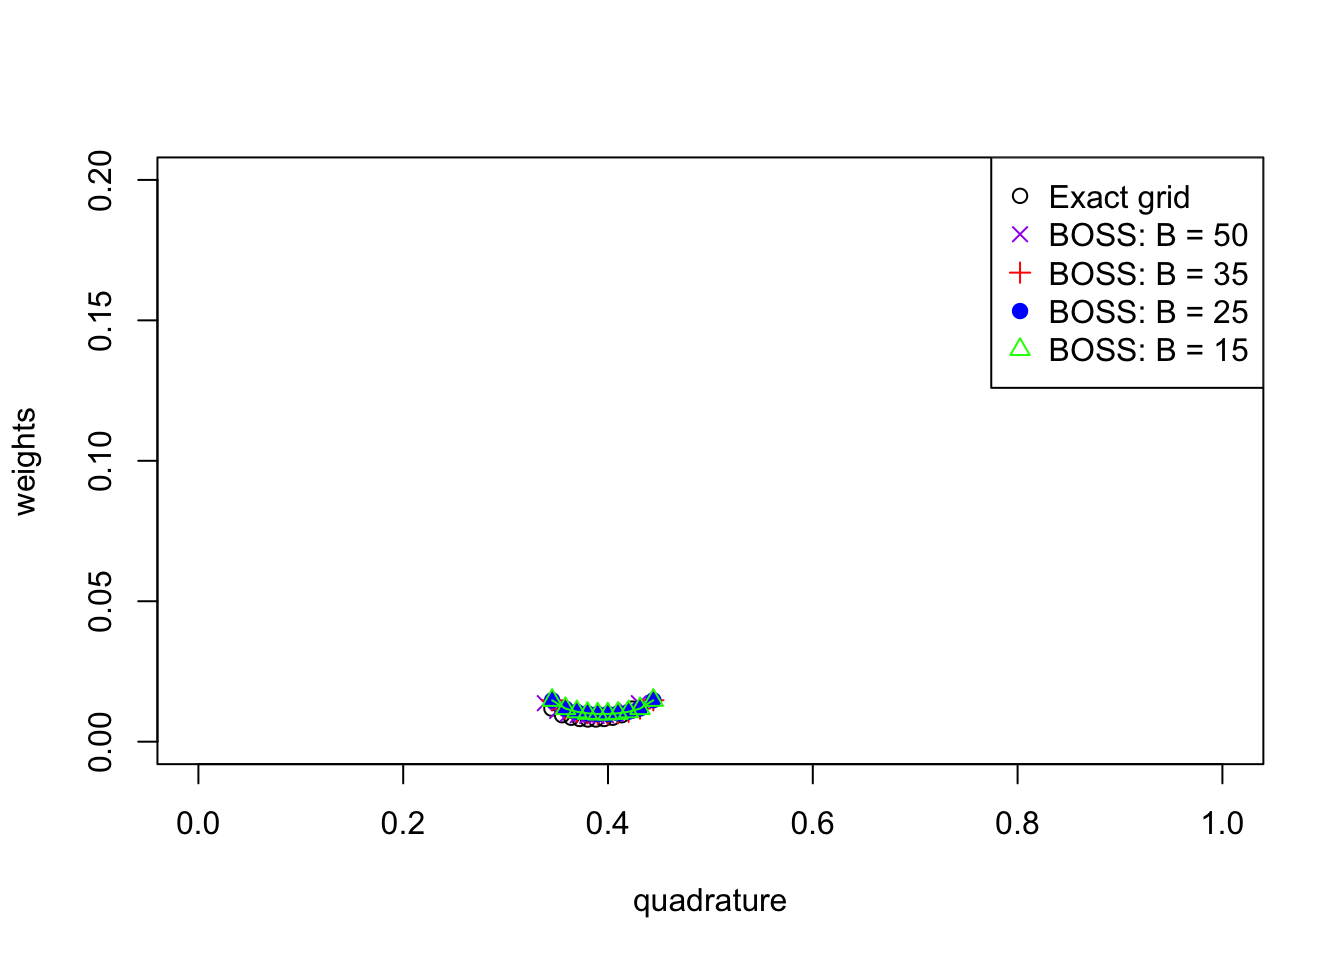
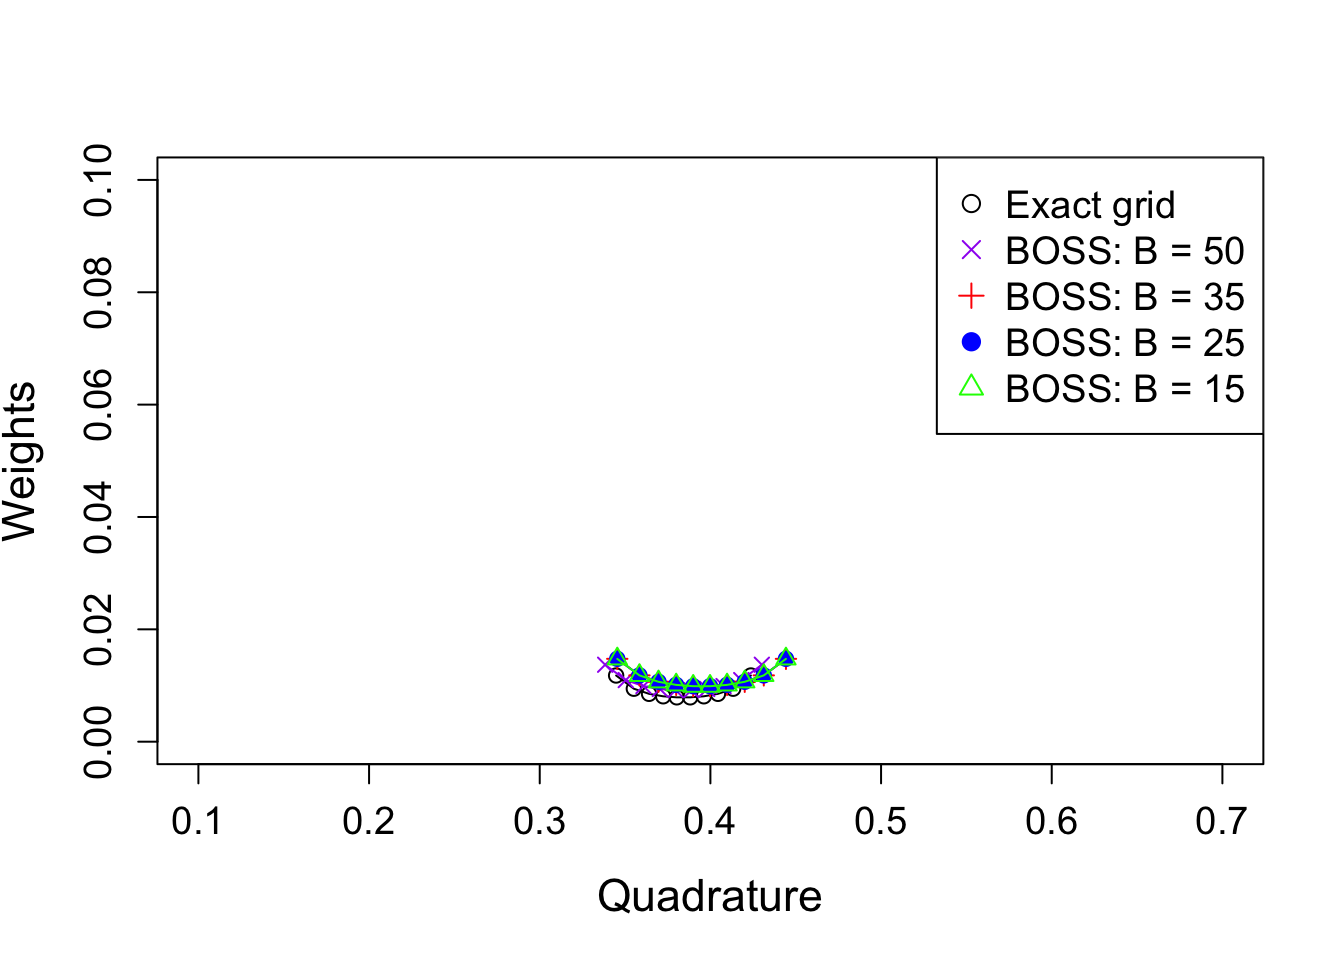
Build site.

diff --git a/docs/sim2.html b/docs/sim2.html
@@ -530,15 +530,15 @@ project makes it easier to run your code on other machines.</p>
 <div class="panel panel-default">
 <div class="panel-heading">
 <p class="panel-title">
-<a data-toggle="collapse" data-parent="#workflowr-checks" href="#strongRepositoryversionstrongahrefhttpsgithubcomAgueroZZBOSSwebsitetreef33af32aacd35338df14520bf59225d20830994atargetblankf33af32a">
+<a data-toggle="collapse" data-parent="#workflowr-checks" href="#strongRepositoryversionstrongahrefhttpsgithubcomAgueroZZBOSSwebsitetree7638cbfa8e4f3d7d0a84492b92b170f703072c9atargetblank7638cbfa">
 <span class="glyphicon glyphicon-ok text-success"
 aria-hidden="true"></span> <strong>Repository version:</strong>
-<a href="https://github.com/AgueroZZ/BOSS_website/tree/f33af32aacd35338df14520bf59225d20830994a" target="_blank">f33af32</a>
+<a href="https://github.com/AgueroZZ/BOSS_website/tree/7638cbfa8e4f3d7d0a84492b92b170f703072c9a" target="_blank">7638cbf</a>
 </a>
 </p>
 </div>
 <div
[2 lines of base64/hex data omitted]
 class="panel-collapse collapse">
 <div class="panel-body">
 <p>
@@ -548,7 +548,7 @@ reproducibility.
 </p>
 <p>
 The results in this page were generated with repository version
-<a href="https://github.com/AgueroZZ/BOSS_website/tree/f33af32aacd35338df14520bf59225d20830994a" target="_blank">f33af32</a>.
+<a href="https://github.com/AgueroZZ/BOSS_website/tree/7638cbfa8e4f3d7d0a84492b92b170f703072c9a" target="_blank">7638cbf</a>.
 See the <em>Past versions</em> tab to see a history of the changes made
 to the R Markdown and HTML files.
 </p>
@@ -637,6 +637,40 @@ Message
 </tr>
 </thead>
 <tbody>
+<tr>
+<td>
+Rmd
+</td>
+<td>
+<a href="https://github.com/AgueroZZ/BOSS_website/blob/7638cbfa8e4f3d7d0a84492b92b170f703072c9a/analysis/sim2.Rmd" target="_blank">7638cbf</a>
+</td>
+<td>
+Ziang Zhang
+</td>
+<td>
+2025-05-09
+</td>
+<td>
+workflowr::wflow_publish("analysis/sim2.Rmd")
+</td>
+</tr>
+<tr>
+<td>
+html
+</td>
+<td>
+<a href="https://rawcdn.githack.com/AgueroZZ/BOSS_website/d265450aef5e02b6f67135988423daaac0336be7/docs/sim2.html" target="_blank">d265450</a>
+</td>
+<td>
+Ziang Zhang
+</td>
+<td>
+2025-05-09
+</td>
+<td>
+Build site.
+</td>
+</tr>
 <tr>
 <td>
 Rmd
@@ -1568,6 +1602,17 @@ Date
 <tbody>
 <tr>
 <td>
+<a href="https://github.com/AgueroZZ/BOSS_website/blob/d265450aef5e02b6f67135988423daaac0336be7/docs/figure/sim2.Rmd/unnamed-chunk-13-1.png" target="_blank">d265450</a>
+</td>
+<td>
+Ziang Zhang
+</td>
+<td>
+2025-05-09
+</td>
+</tr>
+<tr>
+<td>
 <a href="https://github.com/AgueroZZ/BOSS_website/blob/efaad390549cf7f276238cd657be998741c3e44d/docs/figure/sim2.Rmd/unnamed-chunk-13-1.png" target="_blank">efaad39</a>
 </td>
 <td>
@@ -1652,6 +1697,17 @@ Date
 </tr>
 </thead>
 <tbody>
+<tr>
+<td>
+<a href="https://github.com/AgueroZZ/BOSS_website/blob/d265450aef5e02b6f67135988423daaac0336be7/docs/figure/sim2.Rmd/unnamed-chunk-14-1.png" target="_blank">d265450</a>
+</td>
+<td>
+Ziang Zhang
+</td>
+<td>
+2025-05-09
+</td>
+</tr>
 <tr>
 <td>
 <a href="https://github.com/AgueroZZ/BOSS_website/blob/efaad390549cf7f276238cd657be998741c3e44d/docs/figure/sim2.Rmd/unnamed-chunk-14-1.png" target="_blank">efaad39</a>
@@ -1740,6 +1796,17 @@ Date
 <tbody>
 <tr>
 <td>
+<a href="https://github.com/AgueroZZ/BOSS_website/blob/d265450aef5e02b6f67135988423daaac0336be7/docs/figure/sim2.Rmd/unnamed-chunk-15-1.png" target="_blank">d265450</a>
+</td>
+<td>
+Ziang Zhang
+</td>
+<td>
+2025-05-09
+</td>
+</tr>
+<tr>
+<td>
 <a href="https://github.com/AgueroZZ/BOSS_website/blob/efaad390549cf7f276238cd657be998741c3e44d/docs/figure/sim2.Rmd/unnamed-chunk-15-1.png" target="_blank">efaad39</a>
 </td>
 <td>
@@ -1826,6 +1893,17 @@ Date
 <tbody>
 <tr>
 <td>
+<a href="https://github.com/AgueroZZ/BOSS_website/blob/d265450aef5e02b6f67135988423daaac0336be7/docs/figure/sim2.Rmd/unnamed-chunk-16-1.png" target="_blank">d265450</a>
+</td>
+<td>
+Ziang Zhang
+</td>
+<td>
+2025-05-09
+</td>
+</tr>
+<tr>
+<td>
 <a href="https://github.com/AgueroZZ/BOSS_website/blob/efaad390549cf7f276238cd657be998741c3e44d/docs/figure/sim2.Rmd/unnamed-chunk-16-1.png" target="_blank">efaad39</a>
 </td>
 <td>
@@ -1888,6 +1966,17 @@ Date
 </tr>
 </thead>
 <tbody>
+<tr>
+<td>
+<a href="https://github.com/AgueroZZ/BOSS_website/blob/d265450aef5e02b6f67135988423daaac0336be7/docs/figure/sim2.Rmd/unnamed-chunk-17-1.png" target="_blank">d265450</a>
+</td>
+<td>
+Ziang Zhang
+</td>
+<td>
+2025-05-09
+</td>
+</tr>
 <tr>
 <td>
 <a href="https://github.com/AgueroZZ/BOSS_website/blob/efaad390549cf7f276238cd657be998741c3e44d/docs/figure/sim2.Rmd/unnamed-chunk-17-1.png" target="_blank">efaad39</a>
@@ -2067,7 +2156,7 @@ start_time &lt;- Sys.time()
 aghq_result_grid &lt;- obtain_aghq(f = fn, k = 10, optresult = grid_opt_list)
 end_time &lt;- Sys.time()
 end_time - start_time</code></pre>
-<pre><code>Time difference of 0.08192396 secs</code></pre>
+<pre><code>Time difference of 0.08094907 secs</code></pre>
 <pre class="r"><code>quad_exact &lt;- aghq_result_grid$normalized_posterior$nodesandweights</code></pre>
 <p>Now, we compute the AGHQ rule on the BOSS surrogate.</p>
 <pre class="r"><code>quad_BO_list &lt;- list()
@@ -2116,9 +2205,11 @@ Warning in sqrt(sse/(n - df)): NaNs produced</code></pre>
 <p>Let’s visualize the AGHQ rule on the exact grid and BOSS
 surrogate.</p>
 <pre class="r"><code>plot(weights ~ theta1, type = &quot;o&quot;, col = &quot;black&quot;, 
-     data = quad_exact, ylim = c(0, 0.2), 
-     xlim = c(0, 1),
-     xlab = &quot;quadrature&quot;, ylab = &quot;weights&quot;)
+     data = quad_exact, ylim = c(0, 0.1), 
+     xlim = c(0.1, 0.7),
+     cex.lab  = 1.4,    
+     cex.axis = 1.2, 
+     xlab = &quot;Quadrature&quot;, ylab = &quot;Weights&quot;)
 points(weights ~ theta1, type = &quot;o&quot;, col = &quot;purple&quot;, 
        data = quad_BO_list[[9]], pch = 4)
 points(weights ~ theta1, type = &quot;o&quot;, col = &quot;red&quot;, 
@@ -2128,7 +2219,7 @@ points(weights ~ theta1, type = &quot;o&quot;, col = &quot;blue&quot;,
 points(weights ~ theta1, type = &quot;o&quot;, col = &quot;green&quot;,
        data = quad_BO_list[[2]], pch = 2)
 legend(&quot;topright&quot;, legend = c(&quot;Exact grid&quot;, paste0(&quot;BOSS: B = &quot;, eval_num[9]), paste0(&quot;BOSS: B = &quot;, eval_num[6]), paste0(&quot;BOSS: B = &quot;, eval_num[4]), paste0(&quot;BOSS: B = &quot;, eval_num[2])),
-       col = c(&quot;black&quot;, &quot;purple&quot;, &quot;red&quot;, &quot;blue&quot;, &quot;green&quot;), pch = c(1, 4, 3, 19, 2))</code></pre>
+       col = c(&quot;black&quot;, &quot;purple&quot;, &quot;red&quot;, &quot;blue&quot;, &quot;green&quot;), pch = c(1, 4, 3, 19, 2), cex = 1.2)</code></pre>
 <p><img src="figure/sim2.Rmd/unnamed-chunk-22-1.png" width="672" style="display: block; margin: auto;" /></p>
 <p>
 <button type="button" class="btn btn-default btn-xs btn-workflowr btn-workflowr-fig" data-toggle="collapse" data-target="#fig-unnamed-chunk-22-1">
@@ -2258,9 +2349,11 @@ for (i in 1:length(eval_num)) {
 save(quad_sparse_list, file = paste0(output_path, &quot;/quad_sparse_list.rda&quot;))</code></pre>
 <pre class="r"><code>load(paste0(output_path, &quot;/quad_sparse_list.rda&quot;))
 plot(weights ~ theta1, type = &quot;o&quot;, col = &quot;black&quot;, 
-     data = quad_exact, ylim = c(0, 0.2), 
-     xlim = c(0, 1),
-     xlab = &quot;quadrature&quot;, ylab = &quot;weights&quot;)
+     data = quad_exact, ylim = c(0, 0.1), 
+     xlim = c(0.1, 0.7),
+     cex.lab  = 1.4,    
+     cex.axis = 1.2, 
+     xlab = &quot;Quadrature&quot;, ylab = &quot;Weights&quot;)
 points(weights ~ theta1, type = &quot;o&quot;, col = &quot;purple&quot;, 
        data = quad_sparse_list[[9]], pch = 4)
 points(weights ~ theta1, type = &quot;o&quot;, col = &quot;red&quot;,
@@ -2270,7 +2363,7 @@ points(weights ~ theta1, type = &quot;o&quot;, col = &quot;blue&quot;,
 points(weights ~ theta1, type = &quot;o&quot;, col = &quot;green&quot;,
        data = quad_sparse_list[[2]], pch = 2)
 legend(&quot;topright&quot;, legend = c(&quot;Exact grid&quot;, &quot;Sparse: 50&quot;, &quot;Sparse: 35&quot;, &quot;Sparse: 25&quot;, &quot;Sparse: 15&quot;),
-       col = c(&quot;black&quot;, &quot;purple&quot;, &quot;red&quot;, &quot;blue&quot;, &quot;green&quot;), pch = c(1, 4, 3, 19, 2))</code></pre>
+       col = c(&quot;black&quot;, &quot;purple&quot;, &quot;red&quot;, &quot;blue&quot;, &quot;green&quot;), pch = c(1, 4, 3, 19, 2), cex = 1.2)</code></pre>
 <p><img src="figure/sim2.Rmd/unnamed-chunk-25-1.png" width="672" style="display: block; margin: auto;" /></p>
 <p>
 <button type="button" class="btn btn-default btn-xs btn-workflowr btn-workflowr-fig" data-toggle="collapse" data-target="#fig-unnamed-chunk-25-1">
